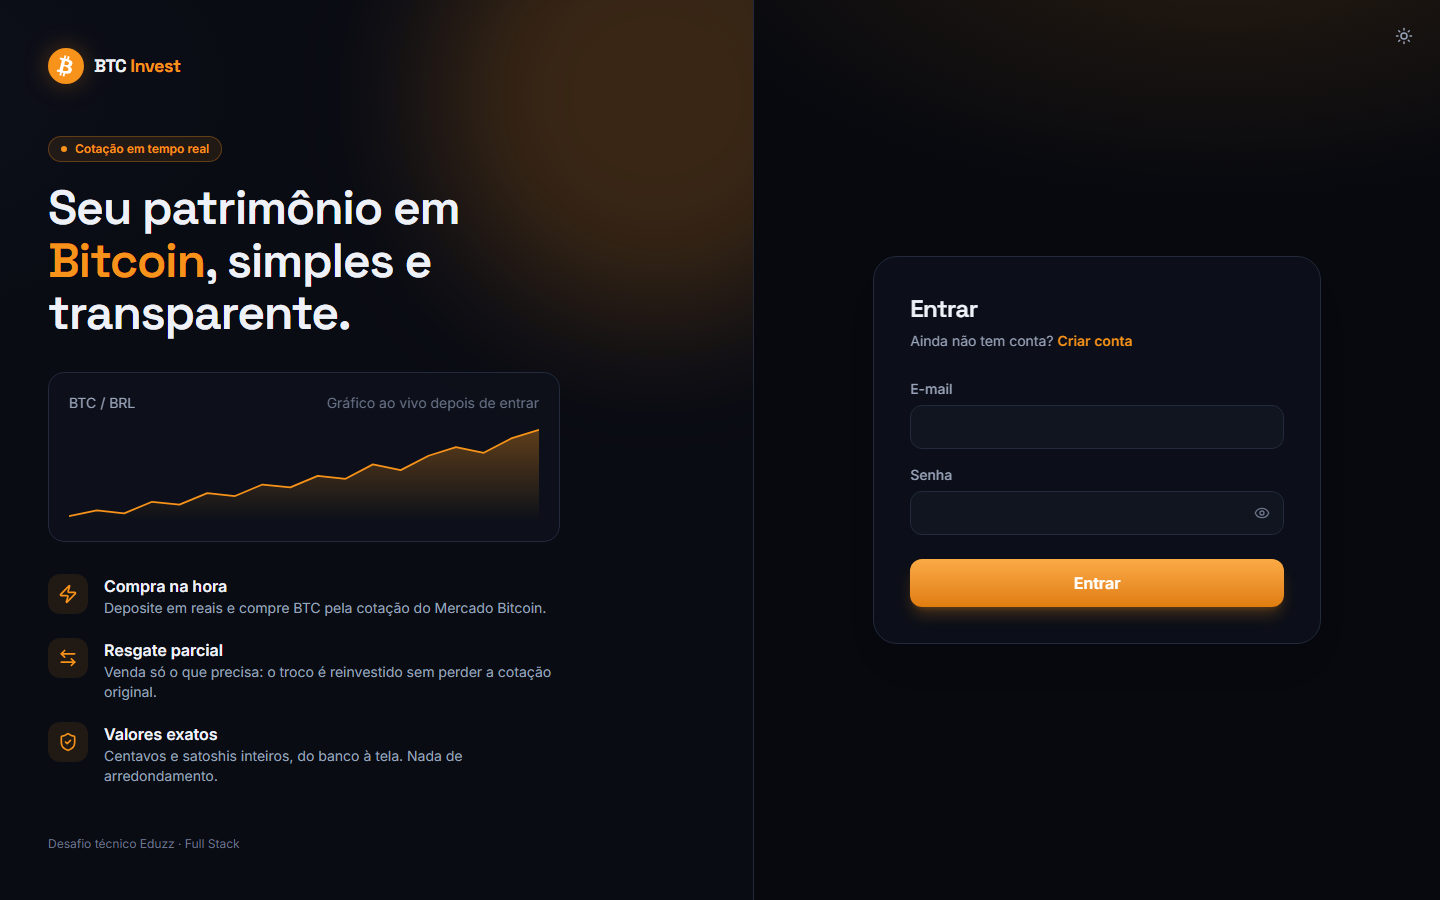
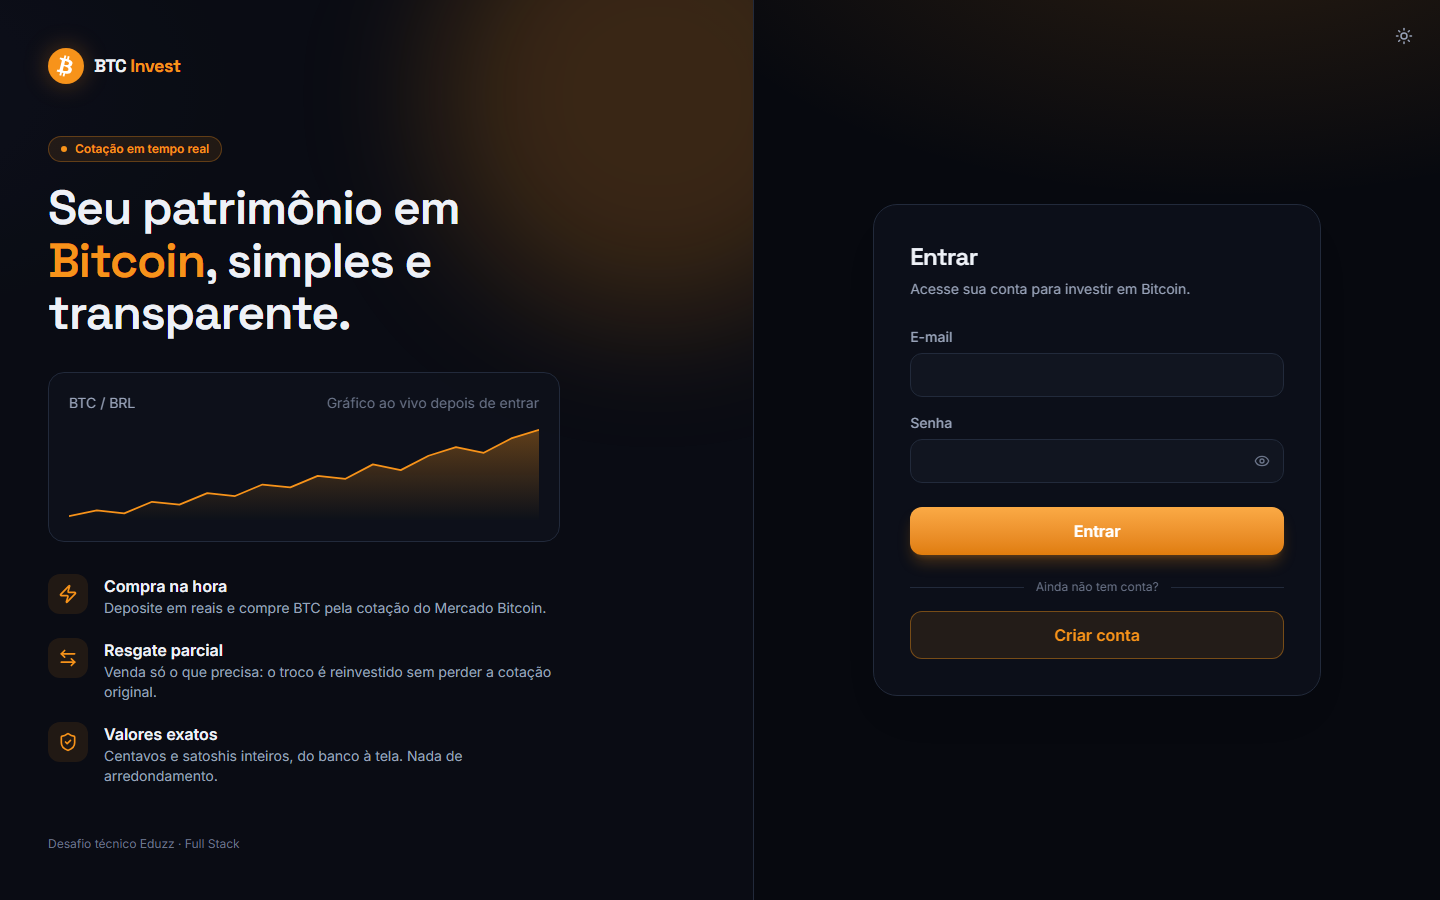
fix(web): demo runs on Node 22.6+ and README shows the new login (#2)
- npm run demo / demo:mobile pass --experimental-strip-types, so the demo
  also runs on Node 22 releases before 22.18 (where it is not on by
  default); package.json declares node >=22.6.
- README: the login screenshot shows the new "Criar conta" button and the
  demo note says which Node it needs.

Changed region(s): [[0.625, 0.4667, 0.9062, 0.7467], [0.625, 0.28, 0.8125, 0.4356]]

diff --git a/README.md b/README.md
@@ -114,7 +114,7 @@ npm run typecheck
 npm run lint
 ```
 
-**Demonstração visual automática:** com a stack no ar, `cd web && npm run demo` abre um navegador e usa o front sozinho em 18 passos (login e cadastro com validações, depósito, compras, bloqueio de valores acima do saldo, venda parcial com reinvestimento, extrato com filtros e CSV, mercado, temas, layout de celular e saída), conferindo cada um. `npm run demo:mobile` faz os mesmos 18 passos numa tela de celular (toque, barra inferior e cartões). `DEMO_HEADLESS=true` roda sem janela.
+**Demonstração visual automática** (Node 22.6+): com a stack no ar, `cd web && npm install && npm run demo` abre um navegador e usa o front sozinho em 18 passos (login e cadastro com validações, depósito, compras, bloqueio de valores acima do saldo, venda parcial com reinvestimento, extrato com filtros e CSV, mercado, temas, layout de celular e saída), conferindo cada um. `npm run demo:mobile` faz os mesmos 18 passos numa tela de celular (toque, barra inferior e cartões). `DEMO_HEADLESS=true` roda sem janela.
 
 O teste de navegador cria uma conta nova, deposita, compra duas vezes, faz uma venda parcial (conferindo o reinvestimento) e confere tudo no extrato. Antes, rode `npx playwright install chromium` uma vez.
 
